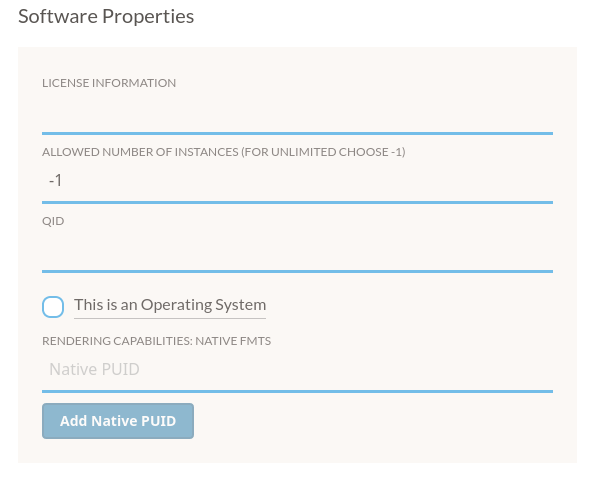
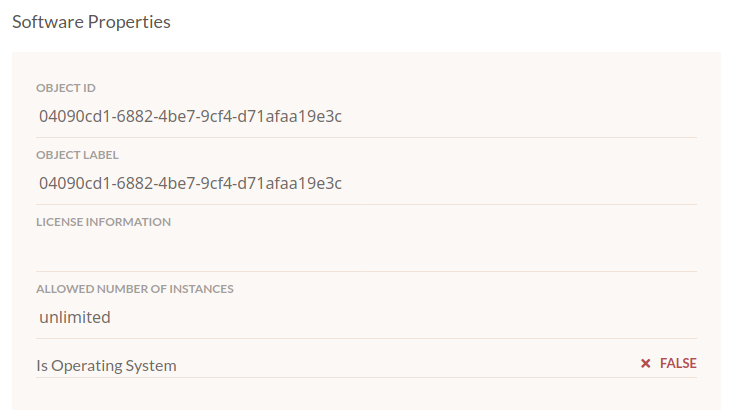
last-minute edits
adjustments to Emulation Project, user management, images of the interface, and any other details relevant to the hosted service that I could catch

diff --git a/source/guide/details.rst b/source/guide/details.rst
@@ -17,53 +17,55 @@ Metadata
 *********
 
 In "Review Mode", users can view current descriptive metadata and configured emulator settings. Click on "Edit Mode" to edit and save changes to compatible fields in Private Environments.
-
-.. warning::
-  At this time, not all fields on Environment Detail pages are editable. Various fields' status will be marked below.
   
 .. warning::
-  Resources marked "Public" **are not editable**. Once published to the EaaSI Network, neither their descriptive metadata nor emulator configuration settings can be altered. Editing **any** fields on a Public/Saved Locally Environment will create a new, derivative, Private Environment. Take care to change Resource Names or other fields to indicate new Environments created from changing settings on the Details page.
+  Resources marked "Public" and "Saved Locally" **are not editable**. Once published to the EaaSI Network, neither their descriptive metadata nor emulator configuration settings can be altered. Editing **any** fields on a Public/Saved Locally Environment will create a new, derivative, Private Environment. Take care to change Resource Names or other fields to indicate new Environments created from changing settings on the Details page.
 
 .. note::
   All resources are assigned a unique identifier (UUID) by the EaaS back-end on creation. UUIDs are not viewable in the EaaSI interface or editable.
   
-**Resource Name and Description**: these are arbitrary, free text fields for users to identify the resource (editable)
+**Resource Name**: This is an arbitrary, free text field for users to identify the resource.
 
 .. image:: ../images/environment_name_desc.png
-  
-**Operating System**: These details are intended to reflect relevant details for discovery from the Environment's operating system. This section is currently **not functional** and should not be considered accurate. It is included to indicate the roadmap for future development on the EaaSI metadata model. (not editable)
-
-.. image:: ../images/os_details.png
-
-**Configured Machine**: TBD (not editable)
-
-**Emulator**: This section indicates the underlying emulator and :term:`Hardware Configuration` used to run this Environment in emulation. Advanced users can use this section to switch the emulator version used to run the Environment (e.g. QEMU 2.12 or QEMU 3.1) and, if necessary, tweak the emulated machine's hardware. Consult each emulator's own documentation to correctly pass Configuration settings to the emulator. (editable)
-
-.. image:: ../images/emulator_details.png
 
 **Configured Drives**: Storage drives must be added and configured properly for Environments in order to allow mounting Software and Content resources in emulation. Drive configuration requires a Media Type (CD-ROM/ISO, Floppy, or Disk) corresponding to the three available :ref:`Media Types <media_types>` for Software and Content resources). Depending on the underlying emulator, additional storage interface and bus/address numbers must be specified to function properly. (editable)
 
-By default, every EaaSI Environment created will have at least: a Disk drive (for the Environment's system drive/operating system), a CDROM drive (for mounting ISO and Files type resources), and a Floppy drive (for mounting Floppy type resources). Adding additional Configured Drives can allow for mounting Disk type objects, or possibly multiple CD-ROM or Floppy type objects within a Software or Content resource at once.
+By default, PC-based EaaSI Environments should have at least: a Disk drive (for the Environment's system drive/operating system), a CDROM drive (for mounting ISO and Files type resources), and a Floppy drive (for mounting Floppy type resources). Adding additional Configured Drives, particularly with Macintosh or other non-PC hardware, may allow for Software and Content resources with multiple CD-ROM or Floppy type objects to be properly mounted.
 
 .. warning::
   There can be severe limitations to the Configured Drive feature depending on the underlying emulator and the Environment's operating system. Please raise specific examples/concerns in the `Support Center <https://forum.eaasi.cloud/c/support-center/6>`_ in the EaaSI Community Forum for help and guidance if needed.
   
 .. image:: ../images/configured_drives.png
 
-**UI Options**: Enables (or disables) various options for running the Environment in the Emulation Access Interface. "Environment can Print" enables the "Download Print Jobs" feature. "Relative Mouse (Pointerlock)" enables a running Environment to capture the user's mouse input. "WebRTC Audio (Beta)" enables an improved method for streaming audio from the emulation session to the user's browser. "Requires clean shutdown" forces the user to perform a full ACPI shutdown of the Environment's operating system in emulation before allowing the user to use the Save Environment feature. (editable)
+**Emulator**: This section indicates the underlying emulator and :term:`Hardware Configuration` used to run this Environment in emulation. Advanced users can use this section to switch the emulator version used to run the Environment (e.g. QEMU 2.12 or QEMU 3.1) and, if necessary, tweak the emulated machine's hardware. Consult each emulator's own documentation to correctly pass Configuration settings to the emulator.
+
+.. image:: ../images/emulator_details.png
+
+**Runtime Options**: Enables (or disables) various options for running the Environment in the Emulation Access Interface.
+
+"Environment can Print" enables the "Download Print Jobs" feature. If an emulated operating system is configured with a PostScript-enabled virtual printer, print jobs sent to that printer within the emulation session will be intercepted by the EaaSI client and offered to the user to download as a PDF. This is currently the only method of extracting data/files from within EaaSI Environments.
+
+"Relative Mouse (Pointerlock)" enables a running Environment to capture the user's mouse input.
+
+"WebRTC Audio" enables an improved method for streaming audio from the emulation session to the user's browser. 
+
+"Requires clean shutdown" forces the user to perform a full ACPI shutdown of the Environment's operating system in emulation before allowing the user to use the Save Environment feature. (editable)
+
+"Internet Enabled" controls whether or not the Environment can theoretically access the live internet while running (if the Environment is configured correctly).
 
 .. note::
-  WebRTC Audio is now out of beta and considered a recommended configuration setting for most Environments.
+  WebRTC Audio is now out of beta and considered a recommended configuration setting for most Environments. However, accessing Environments over/through a VPN may break WebRTC audio.
   
 .. note::
-  "Requires clean shutdown" is recommended for most Environments from approximately 1998 and later (e.g. Windows 98 and up) to make sure emulation sessions save cleanly as a new Environment or revision without operating system errors. It should **not** be enabled for Environments and operating systems prior to this. See `Advanced Configuration and Power Interface <https://en.wikipedia.org/wiki/Advanced_Configuration_and_Power_Interface>`_. 
+  "Requires clean shutdown" is recommended for most Environments from approximately 1998 and later (e.g. Windows 98 and up) to make sure emulation sessions save cleanly as a new Environment or revision without operating system errors. It should **not** be enabled for Environments and operating systems prior to this. See `Advanced Configuration and Power Interface <https://en.wikipedia.org/wiki/Advanced_Configuration_and_Power_Interface>`_.
   
-.. image:: ../images/ui_options.png
-
-**Networking**: Using this option, users can change whether or not the Environment can access the live internet while running in the Emulation Access interface (editable)
+.. warning::
+  "XPRA Video" is an alpha feature for improving video delivery and lag (essentially an equivalent to the improved WebRTC audio delivery). It is not yet stable and is not yet functional in EaaSI.
 
 .. warning::
   For "Environment can  print" and "Enable Internet access" features to work correctly, the Environment's operating system must have been properly configured with a functional PostScript printer drive (for "Environment can print") or an installed TCP/IP networking stack ("Enable Internet access"). Please consult the `Software Help <https://forum.eaasi.cloud/c/software-help/10>`_ section of the EaaSI Community Forum if needing assistance in this area for the Environment or legacy operating system of your choice.
+  
+.. image:: ../images/ui_options.png
   
   
 History
@@ -83,13 +85,13 @@ Software Details
 
 In "Review Mode", users can view current properties of Software resources and some details of the object, including attached files and their Media Type. In "Edit Mode", **only** "Software Properties" are editable.
 
-**Software Properties**: These are editable settings that control to some degree how and when users can interact with the Software resource in emulation. "License Information" is a free-text field and a recommended place to stash license key or registration information that a user may need to correctly run or install the software. "Allowed Number of Instances" controls how many concurrent emulation sessions can be run using this resource. "This is an Operating System" allows the Software resource to appear in the Emulation Project menu as an option to create a new Environment from scratch.
+**Software Properties**: These are editable settings that control to some degree how and when users can interact with the Software resource in emulation. "License Information" is a free-text field and a recommended place to stash license key or registration information that a user may need to correctly run or install the software. "This is an Operating System" communicates whether the Software resource contains a bootable operating system or operatiny system installer.
 
 .. note::
-  "Allowed Number of Instances" is set by default to "-1", allowing an unlimited number of concurrent emulation sessions. If editing, set to the desired positive integer.
+  "Allowed Number of Instances" is set by default to "unlimited", allowing an unlimited number of concurrent emulation sessions. Future updates will allow editing of this field to limit simultaneous sessions using that resource.
   
 .. note::
-  "QID" and "Rendering Capabilites" fields allow for automatic file characterization to pair imported Content resources with Software that may be capable of rendering it via the 'Detect Environments' button. Expanded functionality of this feature (direct connection to Wikidata, auto-rendering based on the `Universal Virtual Interactor <https://ipres2019.org/static/pdf/iPres2019_paper_128.pdf>`_) is planned.
+  "Is Operating System" is currently a descriptive distinction but will be important information to communicate to emulators in planned EaaSI workflows. The EaaSI team recommends setting this accurately and choosing a relevant OS preset for the future.
   
 .. image:: ../images/software_properties.png
 

diff --git a/source/guide/hosted_service.rst b/source/guide/hosted_service.rst
@@ -1,0 +1,51 @@
+.. Hosted Service User Management
+
+.. _hosted-service:
+
+EaaSI Hosted Service User Management
+=====================================
+
+.. note::
+  The following notes are unique to participants in EaaSI's 2021 partnership with the Software Preservation Network to pilot offering the EaaSI platform as a hosted service. As of May 2021, those deploying an EaaSI node on locally-controlled infrastructure can ignore this page.
+  
+Organizations provided with a hosted node by the EaaSI program of work will be provided login credentials for an initial user by the EaaSI support team. This initial user will have Admin-level privileges in the hosted node, so once they have logged in and set up their account, they have the ability to add further users to the hosted node using the EaaSI client's built-in :ref:`user_admin` features.
+
+All new users (including the initial Admin user) will be prompted the first time they log in to change their password from the dummy/provided credentials to a new password of the user's choice. EaaSI's hosted service uses the Google Cloud platform, so user credentials are stored and managed securely but *do* pass over the public internet. The EaaSI team strongly recommends the usual password recommendations for cybersecurity and online services, including:
+
+  * using a password manager to generate and store a unique password for your EaaSI hosted service node
+  * do not reuse passwords from other accounts associated with your EaaSI email/username
+  * longer passwords are better
+  
+
+Changing Your Password
+========================
+
+Hosted service users can change their password at any time by clicking on the Change Password button in the user menu at the top right of the EaaSI menu:
+
+.. image:: ../images/change_password.png
+  :align: center
+  
+Clicking on "Change Password" will take the user to EaaSI's `Keycloak <https://www.keycloak.org/>`_ account services menu. Clicking on the "Update" password button under the "My Password" options on this page will allow the user to set and confirm a new password:
+
+.. image:: ../images/update_password.png
+  
+Hosted service users also have the option to set up a third-party Two-Factor Authentication application on this page for extra security, if desired.
+
+.. note::
+  Using the EaaSI Keycloak Account Management for individual users to change passwords and adjust 2FA settings is intended to be a temporary measure while Keycloak user management features are fully integrated into the EaaSI client's own Node User Management page. Hosted service users will be notified when this feature is updated. The EaaSI team does not recommend hosted service users to adjust any other information or settings on the Keycloak Account Management page, **only** manual passwords changes and optional 2FA setup.
+  
+If a user (of any level) *forgets* or otherwise loses their password, they will need to ask an Admin-level user in their node to reset their password. Admin users can accomplish this on the Manage Users page of their node settings (Manage Node -> Manage Users -> select Details of user in question):
+
+.. image:: ../images/reset_password.png
+  :align: center
+  :width: 600
+  
+Once the Admin confirms they want to reset the user's password, **the user's new temporary password will be displayed to the Admin in a notification for approximately 15-20 seconds**. The Admin will need to immediately copy and save the password and provide it to the user, for example:
+
+.. image:: ../images/password_notification.png
+  :align: center
+
+Once the Admin has provided the user with the temporary password, the user in question will be able to log in again. They will be prompted to immediately change/reset the temporary password back to a password of their choosing.
+
+.. note::
+  Again, this password reset workflow is intended as a temporary solution until EaaSI's email service is properly configured with the EaaSI client's Keycloak user management functionality. Hosted service users will be notified when they can manually reset their own forgotten password over email, as with other online services.

diff --git a/source/resources/glossary.rst b/source/resources/glossary.rst
@@ -9,7 +9,7 @@ Glossary
       Admin users have the highest level of permissions in EaaSI. They are responsible for :term:`node` management
       and can perform all administrative tasks, including importing emulators, syncing :term:`resources<resource>` to
       the :term:`network`, adding new network :term:`endpoints<endpoint>`, monitoring running tasks, etc. Admins
-      also retain all the permissions/actions of :term:`Managers<manager>` and :term:`Configuration Users<configuration user>`
+      also retain all the permissions/actions of :term:`Configuration Users<configuration user>`
       as well.
       
   Base
@@ -21,8 +21,7 @@ Glossary
       
   Configuration User
       Configuration users have the lowest set of permissions in EaaSI. They are able to configure or edit metadata for
-      existing :term:`resources<resource>` and run environments, but can not import any new resources or access the
-      Manage Node menu.
+      existing :term:`resources<resource>` and run environments, but can not interact directly with the EaaSI Network (saving or publishing Environments) or access administrative features in the Manage Node menu.
         
   Content
       Content are items from a digital collection; that is, digital information or works from institutional collections intended 
@@ -63,13 +62,6 @@ Glossary
   Hardware Configuration
       An :term:`environment’s<environment>` hardware configuration refers to the emulator configuration settings that replicate the hardware
       of a physical computer system. Within EaaSI, these configurations are provided as templates.
-      
-  Image
-      The term "image" has been used in various interchanging ways in the EaaSI platform: disk images, emulator "images" (containers), the :ref:`Image Archive <node_components>`. Moving forward, the EaaSI team plans to use this terminology more precisely: Emulators are exchanged via containers, and disk images will always be referred to in full as "disk images".
-      
-      An Image resource refers very specifically to a bootable disk image imported as the basis for an :term:`environment`. It is to refer specifically to either: the necessary disk image/component to import an existing virtual machine from an alternative emulation/virtualization platform (VirtualBox, VMWare, etc) or a unique computing system that must be preserved and presented in its entirety as :term:`content` (for example, `Salman Rushdie's desktop <https://www.newyorker.com/tech/annals-of-technology/digital-life-salman-rushdie>`_).
-      
-      The ultimate goal of the EaaSI program is to abstract Images out of the EaaSI front-end as a resource type. However, they remain currently necessary for the workflows and use cases enumerated above.
             
   Node
       A node is one installation/instance of the EaaSI platform. By default, all imported or created :term:`resources<resource>` stay
@@ -90,7 +82,7 @@ Glossary
       can run or install a stand-alone :term:`environment`).
       
   Resource
-      A resource refers broadly to a usable entity in EaaSI: an :term:`environment`, :term:`software`, :term:`content`, or :term:`image`.
+      A resource refers broadly to a usable entity in EaaSI: an :term:`environment`, :term:`software`, or :term:`content`.
       It is the combination of an :term:`object` and the metadata necessary to render that object.
 
   Software

diff --git a/source/guide/import-resource.rst b/source/guide/import-resource.rst
@@ -50,13 +50,13 @@ drive).
   :align: center
 
 
-- *ISO* - Mounts the object in an environment's virtual optical/CD-ROM drive. Should accept any file extension.
+- **ISO** - Mounts the object in an environment's virtual optical/CD-ROM drive. Should accept any file extension.
 
-- *Floppy* - Mounts the object in an environment's virtual floppy drive. Should accept any file extension.
+- **Floppy** - Mounts the object in an environment's virtual floppy drive. Should accept any file extension.
 
-- *Disk* - Attempts to mount the object as a hard drive (success may thus be highly variable depending on an environment's configured hardware, the operating system's compatibility with the image's file system, etc.). Should accept most if not all hard disk image formats (IMG, DMG, DD/raw, QCOW, VDI, VMDK, E01/EWF, etc.)
+- **Disk** - Attempts to mount the object as a hard drive (success may thus be highly variable depending on an environment's configured hardware, the operating system's compatibility with the image's file system, etc.). Should accept most if not all hard disk image formats (IMG, DMG, DD/raw, QCOW, VDI, VMDK, E01/EWF, etc.)
 
-- *Files* - This option will accept any set of files (i.e. intended for files that are not packaged in a disk image). To allow the arbitrary file set to be mounted in the broadest possible range of operating systems, imported file sets are currently packaged by EaaSI into an ISO file on the back-end; Files objects should thus mount in an environment's virtual CD-ROM/optical drive.
+- **Files** - This option will accept any set of files (i.e. intended for files that are not packaged in a disk image). To allow the arbitrary file set to be mounted in the broadest possible range of operating systems, imported file sets are currently packaged by EaaSI into an ISO file on the back-end; Files objects should thus mount in an environment's virtual CD-ROM/optical drive.
 
 
 For "ISO", "Floppy", and "Disk" type resources, the files that make up the Content **must** be of the same Physical Format to mount and switch between files/disks
@@ -66,6 +66,8 @@ properly in emulation. Mixed-format resources are currently not supported.
   For example, An operating system installer might contain a boot floppy and then multiple CD-ROMs. The floppy image
   and the CD-ROM images must be considered and imported as different resources, but the CD-ROM images should likely be
   imported together as a single resource.
+  
+You can change the Physical Format of many/all files associated with the resource at once by using the Select All button. When multiple files are selected in the import menu, changing the Physical Format of one file will change the Physical Format of *all* files selected accordingly.
 
 Once all desired files have been selected, click "Finish Import" at the top of the page:
 

diff --git a/source/guide/publishing.rst b/source/guide/publishing.rst
@@ -8,11 +8,9 @@ Publishing and Saving Resources
 What resources *can* be published to the network?
 ===============================================
 
-Environments are the only type of resource that can currently be published and shared between EaaSI nodes. (Software can/must be
-shared by first installing it into an Environment and then publishing the Environment)
+Environment and Software resources are the only types of resource that can currently be published and shared between EaaSI nodes.
 
-Also, this does not apply to Content Environments. :term:`Content` and associated Content Environments are assumed to be collection items, unique to each
-node/institution, and therefore potentially subject to different terms of access, licensing, etc. than general software copyright. Content resources therefore can not be Published in the EaaSI Client.
+:term:`Content` and associated Content Environments are assumed to be collection items, unique to each node/institution, and therefore potentially subject to different terms of access, licensing, etc. than general software copyright. Content resources therefore can not be Published in the EaaSI Client, whether on their own or contained within Content Environments.
 
 
 What resources *should* be published?
@@ -25,10 +23,10 @@ What resources *should* be published?
   Nodes and users are advised to design and enforce local workflows for
   publishing resources, given these technical restrictions.
 
-When selecting Environments to share with the rest of the network, EaaSI users and admins can
+When selecting resources to share with the rest of the network, EaaSI users and admins can
 consider questions posed by the `Code of Best Practices in Fair Use for Software Preservation <https://www.arl.org/storage/documents/publications/2018.09.24_softwarepreservationcode.pdf>`_:
 
-  - Did you lawfully acquire your copy of the software included in the environment?
+  - Did you lawfully acquire your copy of the Software (and/or the software included in an environment)?
   - Is the software still reasonably available in the commercial marketplace?
   - Are there any limitations present in donation or acquisition agreements that might preclude fair use?
   - What license(s) was the software distributed under?
@@ -53,7 +51,7 @@ In a selected Private Environment's Actions menu, select "Publish to Network":
 How to save published Environments to a local node
 ====================================================
 
-In a selected Remote Environment's Actions menu, select "Save to My Node":
+In a selected Public Environment's Actions menu, select "Save to My Node":
 
 .. image:: ../images/save_slide_ui.png
 

diff --git a/source/resources/faq.rst b/source/resources/faq.rst
@@ -106,3 +106,25 @@ Even if you do somehow save an infected environment, the damage should be isolat
 The most likely concern would be modern malware and vulnerabilities that are specifically designed to target emulation and virtualization platforms. Again, most legacy web browsers likely couldn't even access the sites where these vulnerabilities are exploited. But this is also another part of the motivation in containerizing many of the modules and emulators underlying EaaSI: to allow them to be easily updated to account for security updates. The EaaS development team regularly updates components to account for secure releases.
 
 In other words, just as you should regularly update your own operating system and applications, EaaSI will too!
+
+|
+
+Can I take screenshots or video of Software or Content running in emulation?
+--------------------------------------------
+
+EaaSI's Emulation Access interface has a built-in feature for taking screenshots of the currently-running emulation. Video is not available out-of-the-box at this time.
+
+|
+
+What is the difference between saving a "New Environment" or a "Revision" from an existing Environment?
+----------------------------------------------
+
+The choice affects how the resource is presented to users in the EaaSI Client. 
+
+Choosing a "new environment" creates an entirely new resource card anywhere resources are visible in the Client (the Explore Resources or My Resources pages, for example). The original Environment will *also* still have an entry. The new Environment will be Private by default.
+
+Choosing "revision" does not create a new resource card - instead it updates and overrides the current resource card.
+
+(**This is only true** if the original Environment was a **Private** resource, not published to the EaaSI Network. If the original Environment was a Public + Saved Locally Environment, selecting "revision" will have **the same** effect as "new environment", and a new resource card will be created for the revision.)
+
+In both cases, Emulation-as-a-Service creates a derivative QCOW disk image file to represent and save the changes to the original Environment, whether the changes are *presented* as a new Environment or as a revision. So revisions can still be easily reverted by consulting the History tab on the Environment's details page and creating a fork at the point of the original Environment.

diff --git a/source/guide/emulation_project.rst b/source/guide/emulation_project.rst
@@ -31,8 +31,3 @@ In the example below, an existing "FreeDOS 1.2" Environment, a "Borland Quattro 
 Once the user has crafted their desired resources and options, they may select "Run" to begin an :ref:`emulation_access` session. From this point, the user can install and configure the operating system software, Change Resource Media, save the new configuration as its own Environment resource, etc. 
 
 The options and resources selected on the Emulation Project page will persist until intentionally cleared by the user, regardless of whether the user saves or discards their changes in an Emulation Access session started from this page. This is intended to make it easier for the user to return and tweak the Emulation Project settings without re-assembling all the selected resources after an Emulation Access session.
-
-.. warning::
-  The "Virtualize CPU" option under Environment's Advanced Options allows for the EaaSI platform to virtualize, rather than emulate, KVM-compatible x86 operating system Environments. This will greatly accelerate and improve Environment use if compatible, but may result in errors if incompatible. It is recommended for recent (~2005-present) Linux systems or Windows XP and newer. Please consult KVM's `documentation <https://www.linux-kvm.org/page/Main_Page>`_ to investigate whether your desired "guest" OS is compatible.
-  
-  KVM support must also be properly configured by your EaaSI sysadmin during deployment for "Virtualize CPU" to be effective. Please consult the :ref:`enable-kvm` page and contact your EaaSI sysadmin if uncertain whether your EaaSI node supports "Virtualize CPU".

diff --git a/source/index.rst b/source/index.rst
@@ -18,6 +18,7 @@ EaaSI User Handbook
    :caption: User Guide
    
    guide/logging-in
+   guide/hosted_service
    guide/dashboard
    guide/explore-resources
    guide/my-resources
